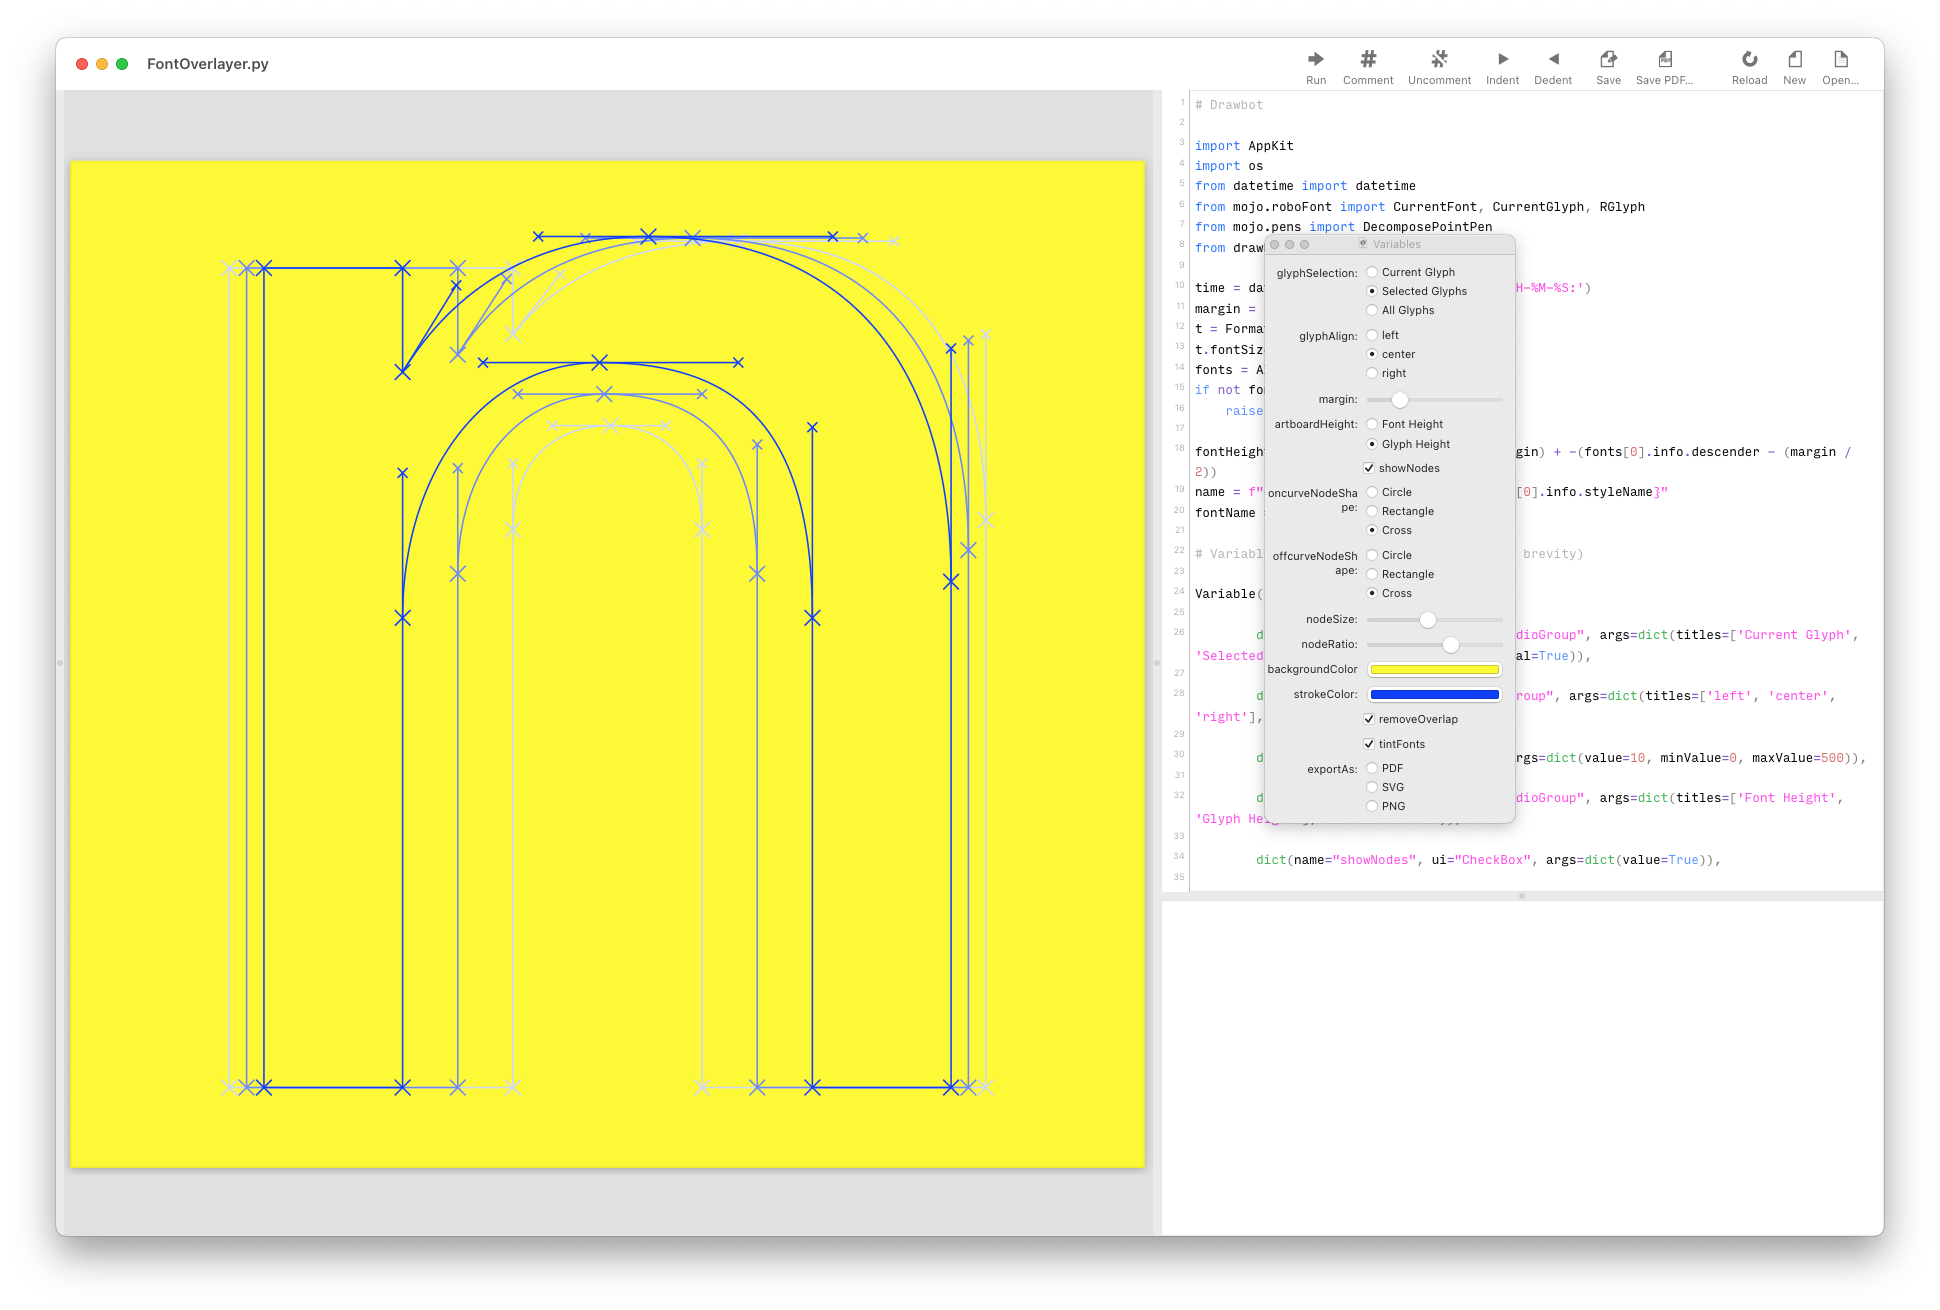
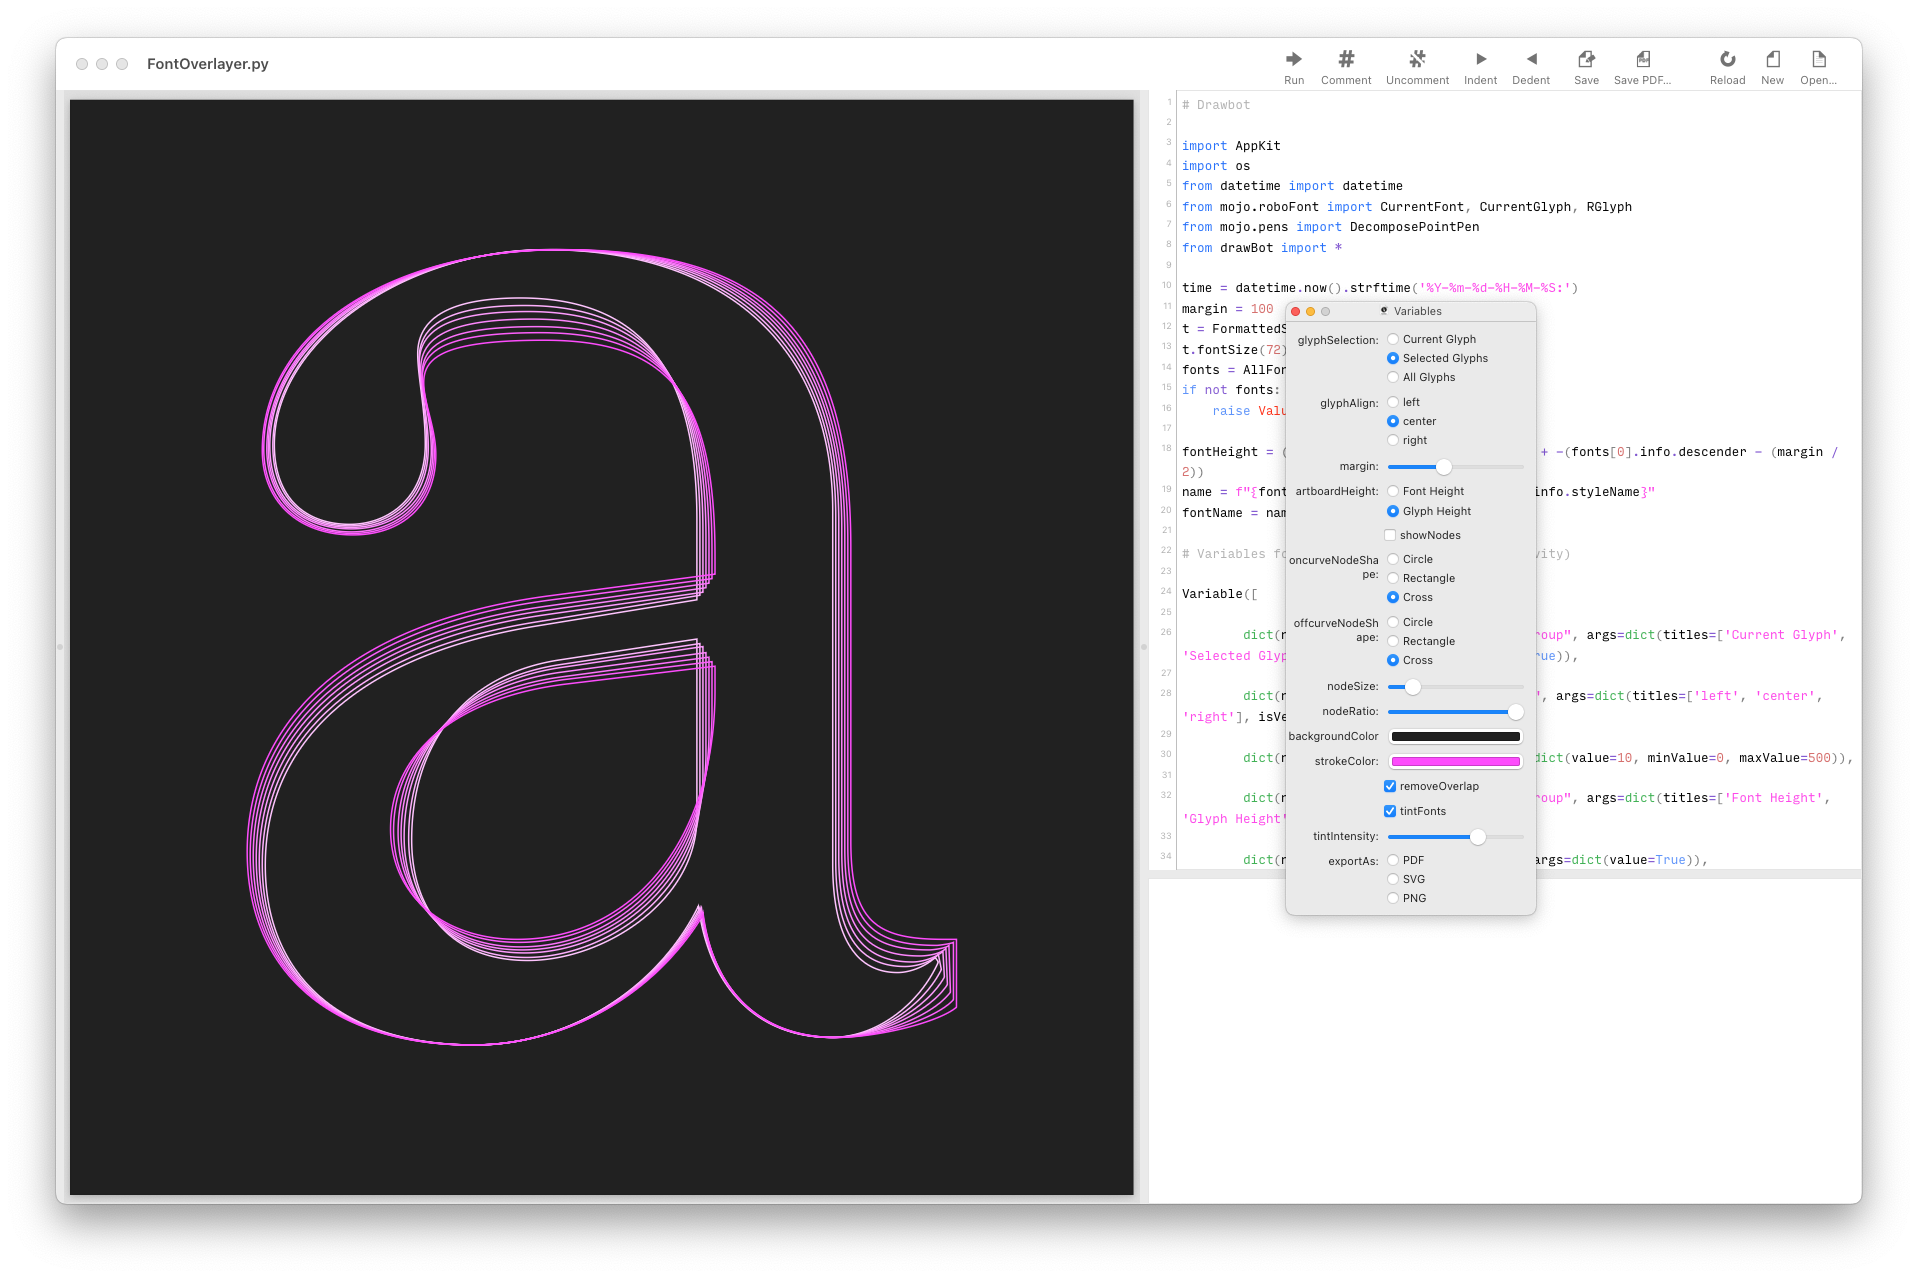
update FontOverlayer

diff --git a/FontOverlayer.py b/FontOverlayer.py
@@ -14,7 +14,10 @@ t.fontSize(72)
 fonts = AllFonts()
 if not fonts:
     raise ValueError("No fonts open.")
-    
+
+for f in fonts:
+    print(f.info.familyName, f.info.styleName)
+
 fontHeight = (fonts[0].info.ascender + margin) + -(fonts[0].info.descender - (margin / 2))
 name = f"{fonts[0].info.familyName}-{fonts[0].info.styleName}"
 fontName = name.replace(" ","-")
@@ -48,6 +51,8 @@ Variable([
         dict(name="removeOverlap", ui="CheckBox", args=dict(value=True)),
                 
         dict(name="tintFonts", ui="CheckBox", args=dict(value=True)),
+        
+        dict(name="tintIntensity", ui="Slider", args=dict(value=.8, minValue=0, maxValue=1)),
     
         dict(name="exportAs", ui="RadioGroup", args=dict(titles=['PDF', 'SVG', 'PNG'], isVertical=True))
         
@@ -81,6 +86,7 @@ for glyphName in glyphNamesToProcess:
     font = fonts[0]
     refGlyph = glyphs[0]
     
+    print(refGlyph)
     # Get glyph bounds for alignment
     bounds = refGlyph.bounds
     
@@ -152,14 +158,14 @@ for glyphName in glyphNamesToProcess:
             else:
                 translate(xOffset, -yMin + (margin / 2))
         
-            factor = (numFonts - 1 - idx) / max(1, (numFonts - 1)) * 0.8  # 0.8 (lightest) to 0.0 (base color)
+            factor = (numFonts - 1 - idx) / max(1, (numFonts - 1)) * tintIntensity  # 0.8 (lightest) to 0.0 (base color)
             
             if tintFonts:
                 tintedColor = AppKit.NSColor.colorWithSRGBRed_green_blue_alpha_(
                     baseR + (1.0 - baseR) * factor,
                     baseG + (1.0 - baseG) * factor,
                     baseB + (1.0 - baseB) * factor,
-                    baseA
+                    baseA + (1.0 - baseA) * factor
                 )
             else:
                 tintedColor = strokeColor
@@ -173,9 +179,15 @@ for glyphName in glyphNamesToProcess:
                     with savedState():
                         x, y = bPoint.anchor
                         translate(x, y)
-                        stroke(tintedColor)
-                        line((0,0), bPoint.bcpIn)
-                        line((0,0), bPoint.bcpOut)
+                        
+                        if showNodes:
+                            stroke(tintedColor)
+                            line((0,0), bPoint.bcpIn)
+                            line((0,0), bPoint.bcpOut)
+                            
+                        else:
+                            continue
+                            
                 for segment in contour:
                     for point in segment:
                     
